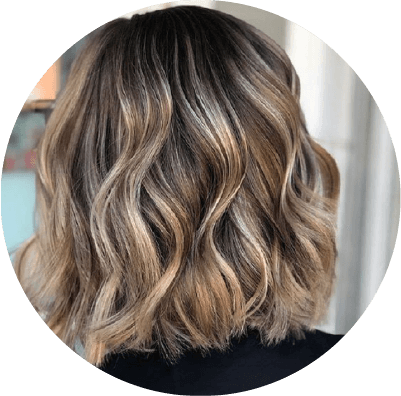
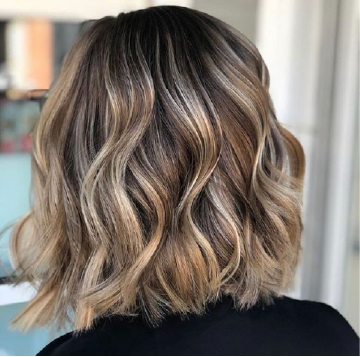
'responsive'

diff --git a/styles/style.css b/styles/style.css
@@ -226,10 +226,17 @@ input:-webkit-autofill:focus,
     z-index: 0;
 }
 
+#serviceSection .row{
+    background-color: var(--bg-pink);
+    border-radius: 10px;
+    padding: 15px;
+}
+
+
 #serviceSection img{
     display:block;
     width:100%;
-    max-width: 200px;
+    max-width: 150px;
     margin:auto;
 }
 
@@ -241,17 +248,11 @@ input:-webkit-autofill:focus,
     margin-bottom:25px;
     background-color: var(--bg-pink);
     border-radius:10px;
-    width:90%;
-    max-width:300px;
-    padding:20px;
+    width:100%;
+    padding:10px;
     min-height:420px;
 }
 
-#serviceSection .target:hover{
-    cursor:pointer;
-    transition: all .5s ease-in-out;
-    box-shadow: 0px 0px 25px 0px rgba(0,0,0,.5);
-}
 
 #serviceSection .taregt h3,
 #serviceSection .target h4{
@@ -275,9 +276,9 @@ input:-webkit-autofill:focus,
     font-family: 'Champage';
     letter-spacing: 2px;
     font-size:15px;
-    text-align: center !important;
     max-width: 200px;
     margin:auto;
+    text-align: left;
 }
 
 /* EXPERIENCE */
@@ -381,19 +382,60 @@ input:-webkit-autofill:focus,
 #weWorkSection .row .target{
     display: block;
     max-width: 300px;
-    background: var(--btn-gold-gradient);
     margin:auto;
-    border-radius: 50%;
-    padding: 3px;
     margin: 20px auto;
+    background-color: white;
+    overflow-y: hidden;
 }
 
-#weWorkSection .row .target img{
+
+#weWorkSection .row .target .target-header{
+    position:relative;
+    background-color: white;
+    padding: 5px;
+}
+
+#weWorkSection .row .target .target-header .logo{
+    border-radius: 50%;
+    display: block;
+    width:55px;
+    height:55px;
+    padding: 3px 3px;
+    background: linear-gradient(45deg, #f09433 0%,#e6683c 25%,#dc2743 50%,#cc2366 75%,#bc1888 100%); 
+}
+
+#weWorkSection .row .target .target-header img{
+    display: block;
+    width:49px;
+    height:49px;
+    border-radius: 50%;
+    background: white;
+    padding: 3px;
+}
+
+#weWorkSection .row .target .target-header h3{
+    display: block;
+    font-size: 15px;
+    color: var(--bg-dark);
+    font-weight: bold;
+    position: absolute;
+    top:10px;
+    left:65px;
+    font-family: 'Champage';
+}
+
+#weWorkSection .row .target .target-body{
+    padding: 5px;
+    max-height: 300px;
+}
+
+
+#weWorkSection .row .target .target-body img{
+    position: relative;
     display: block;
     width:100%;
-    background: var(--bg-dark);
-    border-radius: 50%;
-    padding: 3px;
+    height:100%;
+    max-height: 300px;
 }
 
 

diff --git a/index.html b/index.html
@@ -109,7 +109,7 @@
         <div>
            <section id="serviceSection" class="p-5">
                 <div class="row row-max">
-                    <div class="col-12 col-md-3" v-for="service in services">
+                    <div class="col-6 col-md-3 p-0 m-0 p-md-2" v-for="service in services">
                         <div class="target">
                             <img :src="'img/'+service.img" alt="luxury">
                             <h3>{{ service.title }}</h3>
@@ -126,7 +126,7 @@
             <section id="experienceSection" class="p-5">
                  <h2><span>6</span> Áreas de experiencia en el sector belleza</h2>
                  <div class="row row-max">
-                     <div class="col-12 col-md-4" v-for="experience in experiences">        
+                     <div class="col-6 col-md-4" v-for="experience in experiences">        
                         <div class="target">
                             <div>
                                 <img :src="'img/'+experience.img+'.png'" alt="luxury">
@@ -150,8 +150,14 @@
                     <h2>Algunos de nuestros trabajos</h2>
                     <div class="row row-max">
                         <div class="col-12 col-md-4" v-for="work in works">
-                            <div>
-                                <div class="target">
+                            <div class="target">
+                                <div class="target-header">
+                                    <div class="logo">
+                                        <img src="img/isotipo.jpg" alt="">
+                                    </div>
+                                    <h3>luxurysalon.ve</h3>
+                                </div>
+                                <div class="target-body">
                                     <img :src="'img/'+work.img" alt="luxury">
                                 </div>
                             </div>

diff --git a/styles/stylesDesktop.css b/styles/stylesDesktop.css
@@ -64,6 +64,18 @@
         margin-top:100px;
     }
 
+    #serviceSection .row{
+        background-color: inherit;
+        border-radius: 0px;
+        padding: 0px;
+    }
+
+    #serviceSection .target:hover{
+        cursor:pointer;
+        transition: all .5s ease-in-out;
+        box-shadow: 0px 0px 25px 0px rgba(0,0,0,.5);
+    }
+
     #secondAbout{
         position:relative;
         background:#fff;
